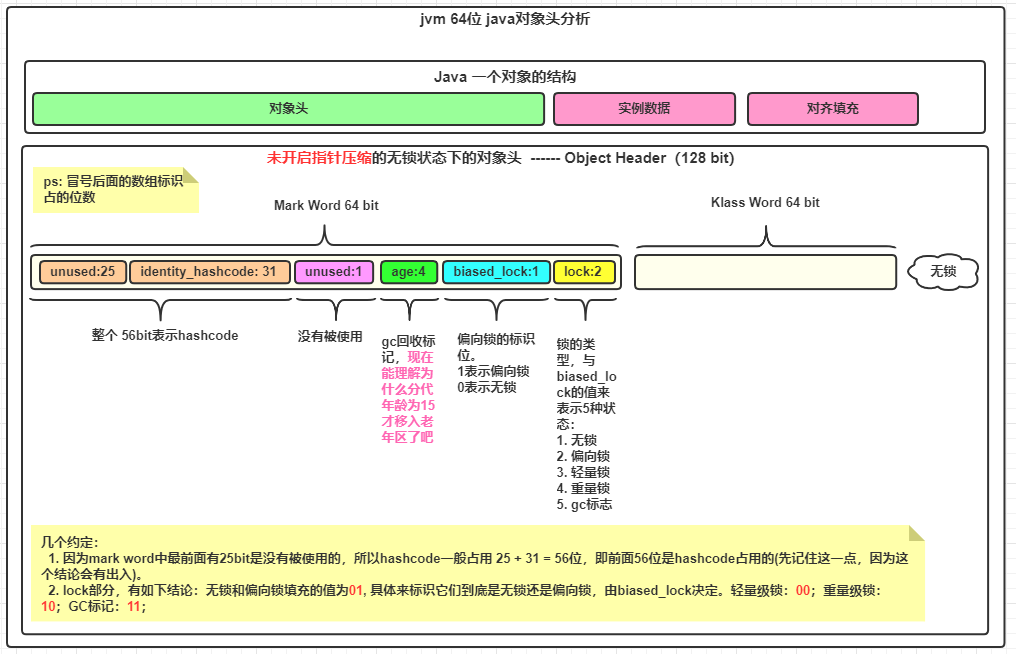
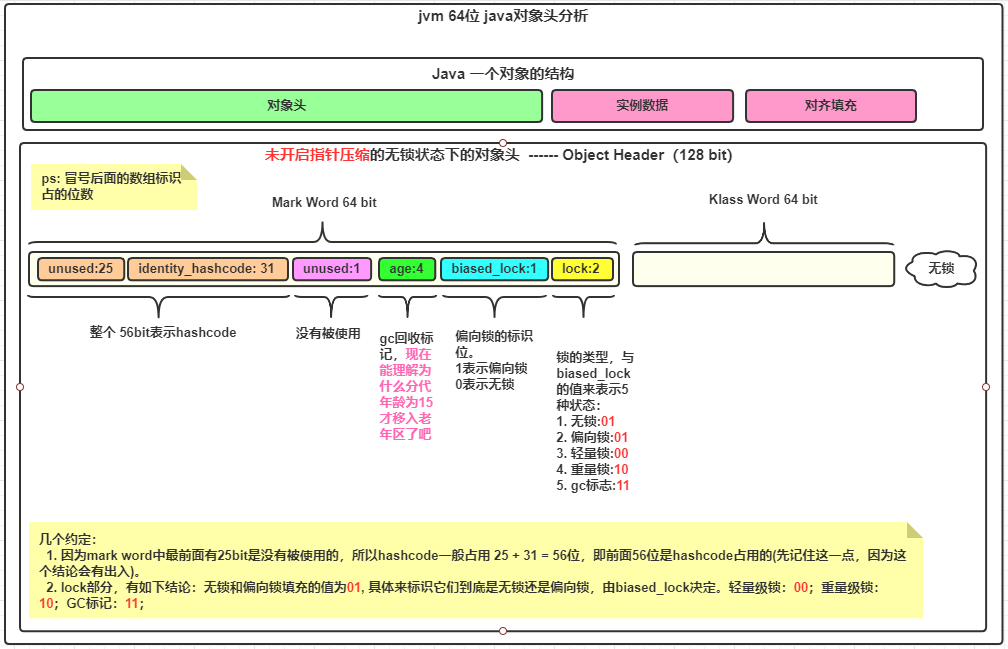
新增证明偏向锁的重偏向以及新增锁膨胀过程流程图

Changed region(s): [[0.0, 0.0, 1.0, 1.0]]

diff --git a/src/main/java/com.eugene.basic/concurrency/objectheader/ReBiasedLock.java b/src/main/java/com.eugene.basic/concurrency/objectheader/ReBiasedLock.java
@@ -1,0 +1,50 @@
+package com.eugene.basic.concurrency.objectheader;
+
+import org.openjdk.jol.info.ClassLayout;
+
+import java.util.ArrayList;
+import java.util.List;
+
+/**
+ * 证明偏向锁的重偏向
+ */
+public class ReBiasedLock {
+
+    static List<Object> locks = new ArrayList<>();
+
+    static final int THREAD_COUNT = 19;
+
+    public static void main(String[] args) throws InterruptedException {
+        // 延迟4.1秒，等待jvm偏向锁功能开启
+        Thread.sleep(4300);
+
+        Thread t1 = new Thread(() -> {
+            for (int i = 0; i < THREAD_COUNT; i++) {
+                Object lock = new Object();
+                locks.add(lock);
+                synchronized (lock) {
+                    System.out.println("线程1 第 " + i + " 把锁");
+                    System.out.println(ClassLayout.parseInstance(lock).toPrintable());
+                    System.out.println("\n *********************************** \n");
+                }
+
+            }
+        }, "线程1");
+
+        t1.start();
+        // 等t1执行完
+        t1.join();
+
+        new Thread(() -> {
+            for (int i = 0; i < locks.size(); i++) {
+                Object lock = locks.get(i);
+                synchronized (lock) {
+                    System.out.println("线程2 第 " + i + " 把锁");
+                    System.out.println(ClassLayout.parseInstance(lock).toPrintable());
+                    System.out.println("\n ==================================== \n");
+                }
+            }
+        }, "线程1").start();
+
+    }
+}

diff --git a/src/main/java/com.eugene.basic/concurrency/README.md b/src/main/java/com.eugene.basic/concurrency/README.md
@@ -1,7 +1,3 @@
-
-
-[TOC]
-
 # java并发编程
 
 ## 一、java线程与操作系统(centos 7 64位，以下简称centos)的关系
@@ -987,14 +983,13 @@
 * 先解释下什么叫轻量锁：
 
   ```txt
-  所谓轻量锁：有锁竞争，但不是那种频繁的竞争。
+  所谓轻量锁：有锁竞争，但不是那种频繁的竞争，一般为多个线程交替执行，不会涉及到锁资源的竞争
   ```
 
 * 修改代码为如下内容：
 
   ```java
   public class Valid {
-  
   
       public static void main(String[] args) {
           System.out.println(ByteOrder.nativeOrder().toString());
@@ -1020,7 +1015,9 @@
 
 #### 3.4.4 证明偏向锁
 
-* 其实吧，讲道理在[3.4.3 证明轻量锁](####3.4.3 证明轻量锁)中它应该是一把偏向锁，为什么呢？因为只有一个线程在占用这把锁，当前偏向于这个线程呀。是的，也没理解错。那为什么会出现这种情况呢？因为jvm在启动项目时做了一个优化！jvm把偏向锁的功能延迟了4s钟，即在jvm启动4s后再开始启用偏向锁。我们来证明下
+* 偏向锁概念：**当只有单个线程执行加锁代码段时，此时的锁为偏向锁，即偏向于当前线程**
+
+* 其实吧，讲道理在[3.4.3 证明轻量锁](####3.4.3 证明轻量锁)中它应该是一把偏向锁，为什么呢？`因为只有一个线程在占用这把锁，当前偏向于这个线程呀`。是的，也没理解错。那为什么会出现这种情况呢？因为jvm在启动项目时做了一个优化！**jvm把偏向锁的功能延迟了4s钟**，即在jvm启动4s后再开始启用偏向锁。我们来证明下
 
 * 修改valid.java为如下代码：
 
@@ -1028,6 +1025,11 @@
   public class Valid {
   
       public static void main(String[] args) throws InterruptedException {
+          // 这里要注意, 一定要在创建对象之前睡眠，若我们先创建对象，可以想一想会发生什么情况！
+          // 那肯定是不会启动偏向锁的功能呀，我们都知道加锁其实是给对象加了个标识
+          // 如果我们在偏向锁功能未开启之前创建了对象，很抱歉，
+          // jvm没有那么智能，后面不会去把这个对象改成可偏向状态(是偏向锁，但是没有偏向具体
+          // 的线程)
           Thread.sleep(4100);
           
           System.out.println(ByteOrder.nativeOrder().toString());
@@ -1050,11 +1052,67 @@
 
   ![证明偏向锁.png](./证明偏向锁.png)
 
-  **之前说过，偏向锁和hashcode是互斥的，大家可以在加锁之前调用hashcode，就会发现它不会变成偏向锁了！**
+  **之前说过，偏向锁和hashcode是互斥的，大家可以在加锁之前调用hashcode，就会发现它不会变成偏向锁了！而且在第一次打印这个对象头信息时，发现它是一个偏向锁。但是！`它也仅仅是一个偏向锁,并没有具体偏向哪一个线程，此时可以趁这把锁处于可偏向状态`**
 
-#### 3.4.5 证明重量锁
+#### 3.4.5 证明偏向锁的重偏向
 
-* 重量锁会存在多个线程抢占锁资源，所以我们写一个生产者消费者案例来证明
+* 若一把锁是偏向锁，且偏向的是线程A。当线程A执行完加锁代码块后，线程B此时去申请拿这把锁，那么这把锁肯定会升级为轻量锁。但是有一个意外的情况，jvm认为：当重复将同一类型的锁(`假设这个锁的类型同时为Object类型`)升级为轻量锁时，若次数超过了`20`，此时jvm就会进行`重偏向操作`，即把当前类型的所有的锁都改成偏向锁，不做这个偏向锁升级为轻量锁的过程了。
+
+* 接下来开始证明，新增如下类`ReBiasedLock.java`
+
+  ```java
+  public class ReBiasedLock {
+  
+      static List<User> locks = new ArrayList<>();
+  
+      static final int THREAD_COUNT = 20;
+  
+      public static void main(String[] args) throws InterruptedException {
+          // 延迟4.1秒，等待jvm偏向锁功能开启
+          Thread.sleep(4300);
+  
+          Thread t1 = new Thread(() -> {
+              for (int i = 0; i < THREAD_COUNT; i++) {
+                  User lock = new User();
+                  locks.add(lock);
+                  synchronized (lock) {
+                      System.out.println("线程1 第 " + i + " 把锁");
+                      System.out.println(ClassLayout.parseInstance(lock).toPrintable());
+                      System.out.println("\n *********************************** \n");
+                  }
+  
+              }
+          }, "线程1");
+  
+          t1.start();
+          // 等t1执行完
+          t1.join();
+  
+          new Thread(() -> {
+              for (int i = 0; i < locks.size(); i++) {
+                  User lock = locks.get(i);
+                  synchronized (lock) {
+                      System.out.println("线程2 第 " + i + " 把锁");
+                      System.out.println(ClassLayout.parseInstance(lock).toPrintable());
+                      System.out.println("\n ==================================== \n");
+                  }
+              }
+          }, "线程1").start();
+  
+      }
+  }
+  ```
+
+* 运行结果与分析：
+
+  > 1.当THREAD_COUNT设置为19时，线程2打印出来的所有锁信息都为轻量锁。
+  > 2.当THREAD_COUNT设置为20时，线程2打印出来的所有锁信息都为偏向锁。
+
+* **`说明：在本案例中，使用的是User类(空对象，没有手动添加任何属性)作为锁时的阈值是20，但是我把类型换成Object的话，它的阈值并不是20。所以这块还需要确认这个阈值是不是要按照某种算法算出来的！`**
+
+#### 3.4.6 证明重量锁
+
+* 重量锁概念：**重量锁会存在多个线程抢占锁资源**。所以我们写一个生产者消费者案例来证明
 
 * 添加如下类：
 
@@ -1142,8 +1200,29 @@
 
   ![证明重量锁.png](./证明重量锁.png)
 
-#### 3.4.6 证明后得出的几个结论
+#### 3.4.7 证明后得出的几个结论
 
 * **偏向锁和hashcode是互斥的，只能存在一个**。
+
 * **jvm默认对偏向锁功能是延迟加载的，大概时间为4s钟**，可以添加JVM参数： `-XX:BiasedLockingStartupDelay=0`来设置延迟时间。
-* **重量级锁之所以重量就是因为状态不停的切换，最终映射到代码层面就是不停的调用操作系统函数(最终会调用到jvm的mutex类)**
+
+* **偏向锁退出同步块后依然也是偏向锁**
+
+* **重量级锁之所以重量就是因为状态不停的切换，最终映射到代码层面就是不停的调用操作系统函数(最终会调用到jvm的`mutex`类)**
+
+* **额外的几个知识点：**
+
+  > 1.调用锁对象的wait方法时，当前锁对象会立马升级为**重量级锁**
+  >
+  > 2.偏向锁的延迟加载关闭后，基本上所有的锁都会为**可偏向状态**，即mark word为101，但是它还没有具体偏向的线程信息
+  >
+  > 3.偏向锁只要被其他线程拿到了，此时偏向锁会膨胀。膨胀为**轻量锁**。
+
+## 四、锁膨胀过程
+
+* 偏向锁只要被其他线程拿到了，此时偏向锁会膨胀。膨胀为**轻量锁**。膨胀的过程，首先它会将轻量锁释放，变为无锁状态，此时将执行CAS操作(拿到这把锁，并验证这把锁是不是无锁状态，如果是则把它升级成轻量锁)膨胀锁
+
+* synchronized关键字锁膨胀过程图：
+
+  ![synchronized膨胀过程.png](./synchronized膨胀过程.png)
+
